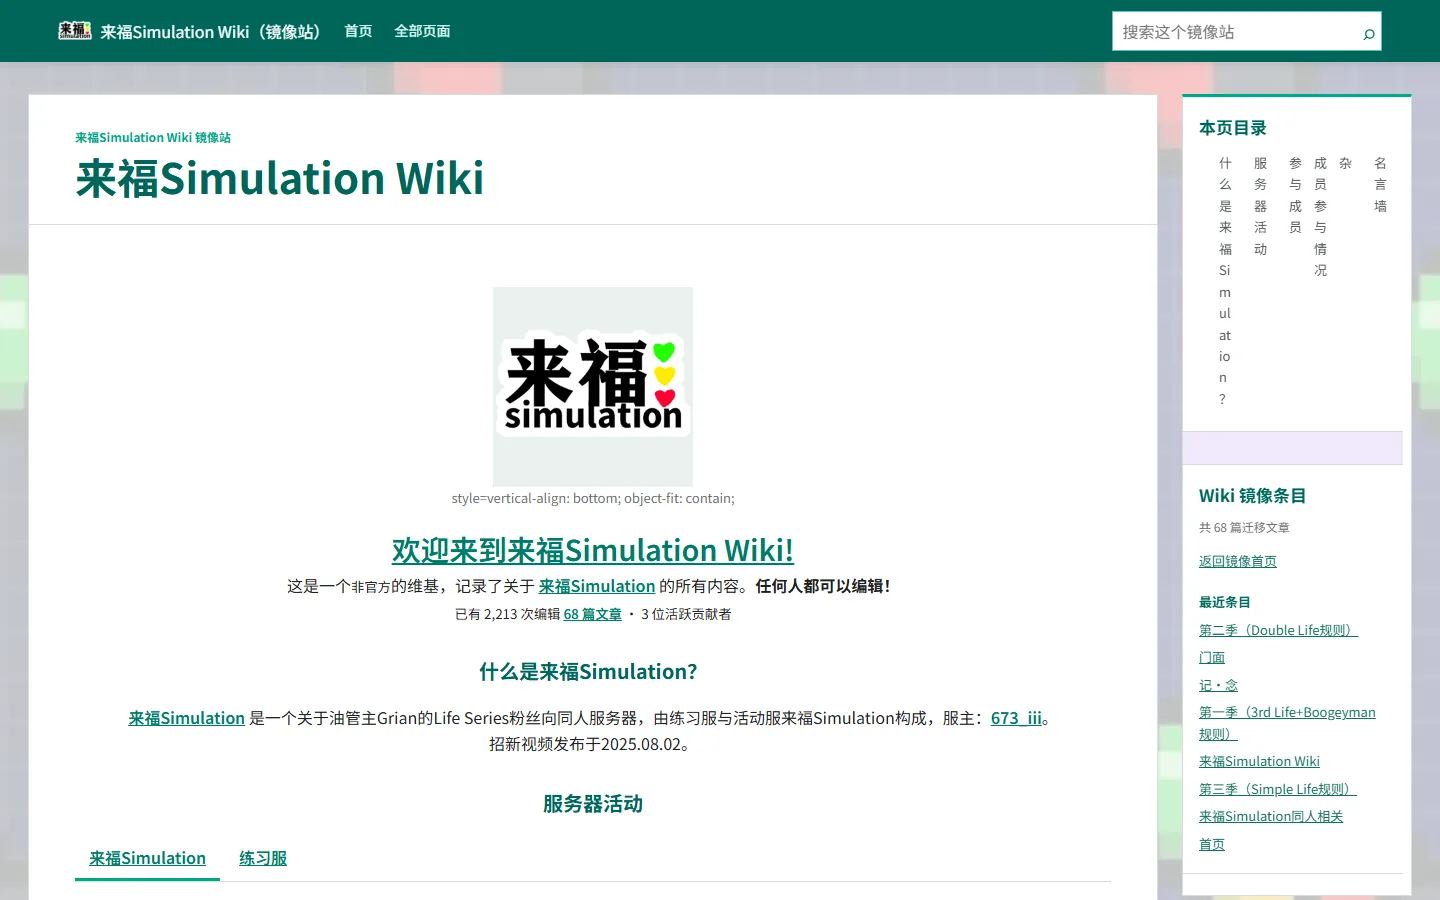
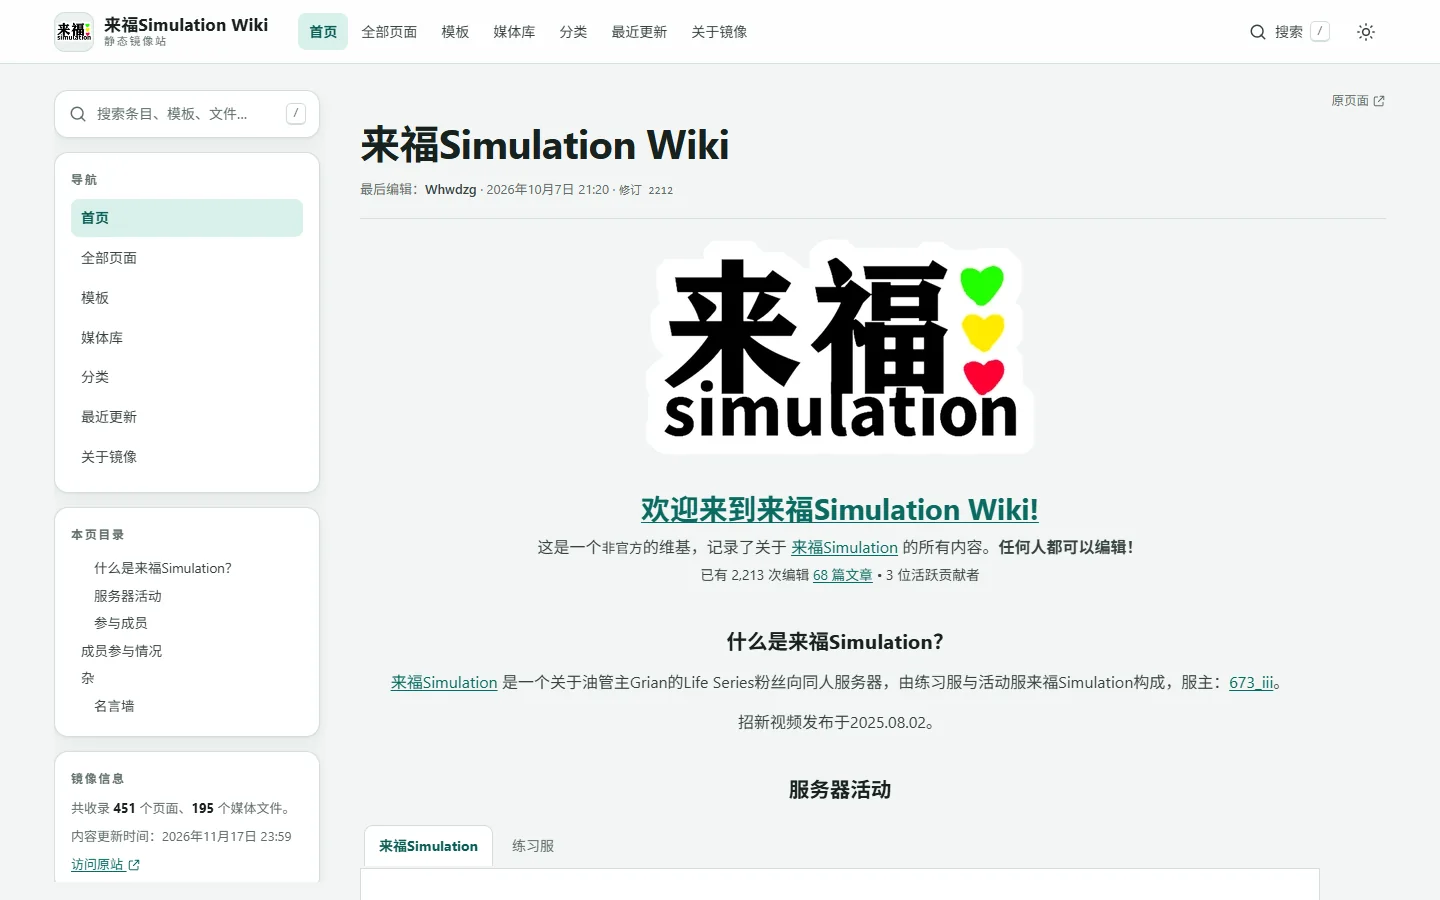
content: refresh Wiki mirror info and homepage

diff --git a/src/pages/projects/LifeSimulationWikiPage.tsx b/src/pages/projects/LifeSimulationWikiPage.tsx
@@ -24,16 +24,16 @@ export default function LifeSimulationWikiPage() {
     <SubsiteShell
       title={project.title}
       subtitle={project.subtitle}
-      description="来福 Simulation Wiki 的静态镜像：通过 MediaWiki API 定时同步主命名空间条目与媒体，生成可离线浏览、可搜索的 VitePress 站点。"
+      description="来福 Simulation Wiki 的全量静态镜像：通过 MediaWiki API 每小时同步页面、模板与媒体，生成可离线浏览、可搜索的静态站点。"
       icon={project.icon}
       url={project.url}
       github={project.github}
       accent={project.accent}
       meta={[
-        { icon: 'document', label: '68 篇条目' },
-        { icon: 'history', label: '2,213 次编辑' },
+        { icon: 'document', label: '451 个页面' },
+        { icon: 'image', label: '195 个媒体文件' },
         { icon: 'refresh', label: '每小时同步' },
-        { icon: 'install', label: 'PWA 离线' },
+        { icon: 'install', label: '可离线浏览' },
       ]}
       toc={toc}
     >
@@ -41,21 +41,21 @@ export default function LifeSimulationWikiPage() {
         <p className="eyebrow">OVERVIEW</p>
         <h2>把一个 Wiki，镜像成可离线浏览的静态站</h2>
         <p>
-          这个子站不是简单的网页抓取：脚本通过 MediaWiki API 同步条目、图片、音频与视频，重写站内链接，再用 VitePress 生成静态页面。
-          运行时使用哈希路由加载 JSON 数据，Service Worker 提供离线缓存。
+          现在覆盖 9 个命名空间：条目、用户、项目、文件、模板、分类、博客、模块与地图。MediaWiki 在构建时展开模板与解析器函数，图片、音频和视频全部落到本地，页面不依赖 Fandom 外链。
+          镜像还保留 MediaWiki / Fandom 组件样式与深色主题；运行时使用静态搜索索引和 PWA 离线缓存。
         </p>
         <div className="project-stat-grid">
           <div>
+            <strong>451</strong>
+            <span>页面</span>
+          </div>
+          <div>
+            <strong>195</strong>
+            <span>媒体文件</span>
+          </div>
+          <div>
             <strong>68</strong>
-            <span>迁移条目</span>
-          </div>
-          <div>
-            <strong>2,213</strong>
-            <span>次编辑记录</span>
-          </div>
-          <div>
-            <strong>3</strong>
-            <span>贡献者</span>
+            <span>条目</span>
           </div>
           <div>
             <strong>1h</strong>
@@ -65,8 +65,8 @@ export default function LifeSimulationWikiPage() {
         <div className="project-feature-grid">
           <div>
             <CheckmarkCircleRegular aria-hidden />
-            <strong>完整镜像</strong>
-            <p>主命名空间条目、媒体文件、站内链接重写与本地资源路径。</p>
+            <strong>全量命名空间</strong>
+            <p>条目、用户、项目、文件、模板、分类、博客、模块与地图共 451 个页面。</p>
           </div>
           <div>
             <CheckmarkCircleRegular aria-hidden />
@@ -87,33 +87,33 @@ export default function LifeSimulationWikiPage() {
         <div className="project-feature-grid">
           <div>
             <DocumentRegular aria-hidden />
-            <strong>条目数据</strong>
-            <p>生成 <code>index.json</code> 与逐页 JSON，包含标题、正文、目录与元数据。</p>
+            <strong>模板预展开</strong>
+            <p>MediaWiki 在构建时解析模板、信息框、导航框与标签页，静态 HTML 无需 JavaScript。</p>
           </div>
           <div>
             <DocumentRegular aria-hidden />
             <strong>媒体本地化</strong>
-            <p>图片、音频、视频落到 <code>wiki-assets</code>，避免依赖源站跨域与外链。</p>
+            <p>195 个原文件、缩略图、音频与视频保存到 <code>dist/media/</code>，不依赖 Fandom CDN。</p>
           </div>
           <div>
             <DocumentRegular aria-hidden />
-            <strong>直链兜底</strong>
-            <p>每个条目生成独立 Markdown 入口，刷新与分享不会 404。</p>
+            <strong>静态搜索</strong>
+            <p>生成 <code>data/search.json</code>，在本地搜索标题、摘要与正文。</p>
           </div>
           <div>
             <DocumentRegular aria-hidden />
-            <strong>站内搜索</strong>
-            <p>基于同步后的 JSON 索引，不依赖外部搜索服务。</p>
+            <strong>增量媒体缓存</strong>
+            <p>用媒体清单签名作为 GitHub Actions 缓存键，无变更时跳过重复下载。</p>
           </div>
           <div>
             <DocumentRegular aria-hidden />
             <strong>主题与移动端</strong>
-            <p>保留 Wiki 的绿色视觉，同时适配窄屏与触摸导航。</p>
+            <p>保留 MediaWiki / Fandom 组件样式，支持深色主题、窄屏与触摸导航。</p>
           </div>
           <div>
             <DocumentRegular aria-hidden />
-            <strong>CC BY-SA</strong>
-            <p>迁移页面保留原 Wiki 的署名链接；发布前确认媒体再发布权利。</p>
+            <strong>失败回退</strong>
+            <p>单页或媒体失败不会中断整次构建；页面保留提示，下一小时重试。</p>
           </div>
         </div>
       </Reveal>
@@ -140,10 +140,11 @@ export default function LifeSimulationWikiPage() {
         <div className="project-table-wrap">
           <table className="project-table">
             <tbody>
-              <tr><td>生成器</td><td>VitePress 1.6 + 自定义主题</td></tr>
-              <tr><td>数据源</td><td>MediaWiki API（每小时同步）</td></tr>
-              <tr><td>数据</td><td><code>index.json</code> + <code>pages/*.json</code> + 本地媒体</td></tr>
-              <tr><td>运行</td><td>哈希路由 <code>#/wiki/</code>、站内搜索、PWA / Service Worker</td></tr>
+              <tr><td>生成器</td><td>Node.js 20 + 自定义静态站点生成器</td></tr>
+              <tr><td>数据源</td><td>MediaWiki API（action=parse，每小时同步）</td></tr>
+              <tr><td>范围</td><td>9 个命名空间 · 451 个页面 · 195 个媒体文件</td></tr>
+              <tr><td>数据</td><td><code>data/search.json</code> + 页面 HTML + <code>dist/media/</code></td></tr>
+              <tr><td>运行</td><td>静态 HTML、本地搜索、PWA / Service Worker</td></tr>
               <tr><td>部署</td><td>GitHub Actions → GitHub Pages 子路径 <code>/Life-Simulation-Wiki/</code></td></tr>
             </tbody>
           </table>
@@ -156,7 +157,7 @@ export default function LifeSimulationWikiPage() {
         <div className="project-link-grid">
           <a href={project.url} target="_blank" rel="noopener noreferrer">
             <strong>打开 Wiki 镜像</strong>
-            <span>68 篇条目 · 可离线浏览</span>
+            <span>451 个页面 · 195 个媒体文件 · 可离线浏览</span>
             <OpenRegular aria-hidden />
           </a>
           <a href={project.github} target="_blank" rel="noopener noreferrer">
@@ -168,7 +169,7 @@ export default function LifeSimulationWikiPage() {
         <Link className="text-link" to="/projects/github/">
           查看 GitHub 项目页 <ArrowRightRegular aria-hidden />
         </Link>
-        <p className="project-note">迁移内容来自来福 Simulation Wiki，遵循原站 CC BY-SA 署名要求。</p>
+        <p className="project-note">迁移内容来自来福 Simulation Wiki，遵循原站 CC BY-SA 3.0 署名要求。</p>
       </Reveal>
     </SubsiteShell>
   );

diff --git a/src/components/home/HomeSections.tsx b/src/components/home/HomeSections.tsx
@@ -66,13 +66,13 @@ export function NowSection() {
                 <CheckmarkCircleRegular aria-hidden /> Fluent 设计系统与液态玻璃
               </li>
               <li>
-                <CheckmarkCircleRegular aria-hidden /> 矩形悬浮侧栏与全屏自动收起页眉
+                <CheckmarkCircleRegular aria-hidden /> 圆角悬浮侧栏与全屏自动收起页眉
               </li>
               <li>
-                <CheckmarkCircleRegular aria-hidden /> 251 条影像归档与本地 WebP 封面
+                <CheckmarkCircleRegular aria-hidden /> 251 条影像归档，含 3 条直播回放与 2 个合集
               </li>
               <li>
-                <CheckmarkCircleRegular aria-hidden /> 版本 / 提交历史页与 GitHub Pages 部署
+                <CheckmarkCircleRegular aria-hidden /> 451 页 Wiki 镜像、掩星实验页与 GitHub Pages 部署
               </li>
             </ul>
           </div>
@@ -193,7 +193,7 @@ export function SubsitesAndTools() {
         <SectionHeading
           eyebrow="SUB-SITES · TOOLS"
           title="子站与站内工具"
-          description="播放器、Wiki 镜像与 2.0 工具条目都做成了独立页面；主站只负责导览。"
+          description="播放器、451 页 Wiki 镜像、掩星实验与 6 个站内工具都做成了独立页面；主站只负责导览。"
           actions={
             <Link className="text-link" to="/projects/github/">
               GitHub 项目页 <ArrowRightRegular aria-hidden />
@@ -201,6 +201,17 @@ export function SubsitesAndTools() {
           }
         />
         <div className="home-extras-grid">
+          <Reveal delay={0}>
+            <Link className="home-extra-card home-extra-card--site" to="/projects/occultation/" style={{ '--extra-accent': '#7c8cff' } as React.CSSProperties}>
+              <span className="home-extra-card__icon"><FluentIcon name="sparkle" size={20} aria-hidden /></span>
+              <div>
+                <p>EXPERIMENT</p>
+                <h3>掩星</h3>
+                <span>星星升天动画与动态乱码：尘埃尚未落定，时间仍在谱写。</span>
+              </div>
+              <ArrowRightRegular aria-hidden />
+            </Link>
+          </Reveal>
           {SUBSITES.map((site, index) => (
             <Reveal key={site.id} delay={index * 60}>
               <Link className="home-extra-card home-extra-card--site" to={site.path} style={{ '--extra-accent': site.accent } as React.CSSProperties}>

diff --git a/src/data/site.ts b/src/data/site.ts
@@ -256,7 +256,7 @@ export const SUBSITES: Subsite[] = [
     id: 'life-simulation-wiki',
     title: '来福 Simulation Wiki',
     subtitle: 'Life Simulation Wiki 镜像',
-    description: '来福 Simulation 的静态 Wiki 镜像：68 篇条目、离线浏览、全文搜索与 PWA。',
+    description: '来福 Simulation 的全量静态 Wiki 镜像：451 个页面、195 个媒体文件、离线浏览与全文搜索。',
     icon: '/media/projects/life-simulation-wiki.svg',
     path: '/projects/life-simulation-wiki/',
     url: 'https://whwdzg.github.io/Life-Simulation-Wiki/',
@@ -319,7 +319,7 @@ export const TIMELINE: TimelineEntry[] = [
     year: '2026.11',
     label: '现在',
     title: '3.3 子站与工具',
-    text: 'Asteria Player、Wiki 镜像、GitHub 项目页与 2.0 工具全部重做，加入季节粒子与正文大图。',
+    text: 'Asteria Player、Wiki 全量镜像、GitHub 项目页与掩星实验页；6 个工具重做，B 站归档含直播回放。',
     tone: 'a',
   },
 ];
@@ -334,7 +334,7 @@ export const HIGHLIGHTS: Highlight[] = [
   {
     icon: 'sparkle',
     title: 'Fluent Sun Valley',
-    text: 'Mica / Acrylic 表面、8px 圆角、Segoe UI Variable 字体与 Fluent 图标体系。',
+    text: 'Mica / Acrylic 表面、圆角系统、Segoe UI Variable 字体与 Fluent 图标体系。',
   },
   {
     icon: 'glass',
@@ -344,12 +344,12 @@ export const HIGHLIGHTS: Highlight[] = [
   {
     icon: 'panel',
     title: '悬浮矩形侧栏',
-    text: '彻底收起，不留窄条；展开时以浮层覆盖内容，方角、轻阴影、点击外部即收起。',
+    text: '彻底收起，不留窄条；展开时以圆角浮层覆盖内容，轻阴影、点击外部即收起。',
   },
   {
     icon: 'fullscreen',
     title: '全屏自动收起页眉',
-    text: '默认展开；全屏或滚动时按设置自动隐藏，鼠标移向顶部立刻恢复。',
+    text: '默认展开；全屏或滚动时按设置自动隐藏，收起后内容立即补位，鼠标移向顶部恢复。',
   },
   {
     icon: 'image',
@@ -358,8 +358,8 @@ export const HIGHLIGHTS: Highlight[] = [
   },
   {
     icon: 'rocket',
-    title: '快，但留有余地',
-    text: '多入口、路由级代码分割、系统字体、Service Worker 缓存与空闲预取。',
+    title: '多入口与 251 条归档',
+    text: '23 个真实 HTML 页面、路由级代码分割、B 站合集 / 直播回放、PWA 缓存与空闲预取。',
   },
 ];
 

diff --git a/src/components/home/HeroCarousel.tsx b/src/components/home/HeroCarousel.tsx
@@ -60,10 +60,10 @@ const SLIDES: Slide[] = [
     kicker: 'ARCHIVE · BILIBILI',
     title: '251 段影像，',
     accent: '一次完整归档。',
-    lead: '从 2021 年的第一条 Minecraft 视频，到官方短视频搬运与数据包演示。封面全部本地 WebP 化，支持搜索、年份筛选与网格 / 列表视图。',
+    lead: '从 2021 年的第一条 Minecraft 视频，到官方短视频、合集与直播回放。封面全部本地 WebP 化，支持搜索、年份筛选与网格 / 列表视图。',
     light: '/media/hero/light-1.webp',
     dark: '/media/hero/dark-2.webp',
-    meta: ['251 条记录', '2021 → 2026', '本地 WebP'],
+    meta: ['251 条记录', '3 条直播回放', '本地 WebP'],
     actions: [
       { label: '浏览影像归档', to: '/bilibili/', primary: true },
       { label: '前往 B 站', to: 'https://space.bilibili.com/588003657', external: true },
@@ -88,10 +88,10 @@ const SLIDES: Slide[] = [
     kicker: 'SUB-SITES · TOOLS',
     title: '播放器与 Wiki，',
     accent: '也放进站点。',
-    lead: 'Asteria Player 负责本地音视频播放，来福 Simulation Wiki 提供离线镜像；2.0 的编码、计算器与投影工具也全部重做。',
+    lead: 'Asteria Player 负责本地音视频播放；来福 Simulation Wiki 已扩展到 451 个页面、195 个媒体文件。编码、计算器、投影工具与掩星实验也都在这里。',
     light: '/media/hero/light-3.webp',
     dark: '/media/hero/dark-2.webp',
-    meta: ['2 个子站', '6 个工具', '独立部署'],
+    meta: ['2 个子站', '6 个工具', '451 页 Wiki'],
     actions: [
       { label: '浏览子站', to: '/projects/asteria-player/', primary: true },
       { label: '打开工具', to: '/tools/' },
@@ -192,6 +192,7 @@ export function HeroCarousel() {
     () => [
       { value: '251', label: '影像归档' },
       { value: '06', label: 'Modrinth 项目' },
+      { value: '03', label: '直播回放' },
       { value: '3.3.0', label: '当前版本' },
     ],
     [],

diff --git a/projects/life-simulation-wiki/index.html b/projects/life-simulation-wiki/index.html
@@ -6,11 +6,11 @@
     <meta name="color-scheme" content="dark light" />
     <meta name="theme-color" content="#0b0d12" id="theme-color-meta" />
     <title>来福 Simulation Wiki · 水鱼 Blog</title>
-    <meta name="description" content="来福 Simulation Wiki 静态镜像：68 篇条目、离线浏览、站内搜索与 PWA。" />
+    <meta name="description" content="来福 Simulation Wiki 全量静态镜像：451 个页面、195 个媒体文件、离线浏览与全文搜索。" />
     <meta name="author" content="沧海水鱼" />
     <meta property="og:type" content="website" />
     <meta property="og:title" content="来福 Simulation Wiki · 水鱼 Blog" />
-    <meta property="og:description" content="来福 Simulation Wiki 静态镜像：68 篇条目、离线浏览、站内搜索与 PWA。" />
+    <meta property="og:description" content="来福 Simulation Wiki 全量静态镜像：451 个页面、195 个媒体文件、离线浏览与全文搜索。" />
     <meta property="og:url" content="https://whwdzg.github.io/projects/life-simulation-wiki/" />
     <link rel="canonical" href="https://whwdzg.github.io/projects/life-simulation-wiki/" />
     <link rel="icon" href="/icons/favicon.ico" sizes="any" />

diff --git a/src/lib/routes.ts b/src/lib/routes.ts
@@ -111,7 +111,7 @@ export const ROUTES: RouteMeta[] = [
     path: '/projects/life-simulation-wiki/',
     title: '来福 Simulation Wiki · 水鱼 Blog',
     shortTitle: 'Simulation Wiki',
-    description: '来福 Simulation Wiki 静态镜像：68 篇条目、离线浏览、站内搜索与 PWA。',
+    description: '来福 Simulation Wiki 全量静态镜像：451 个页面、195 个媒体文件、离线浏览与全文搜索。',
     prefetch: false,
     load: () => import('../pages/projects/LifeSimulationWikiPage'),
   },
